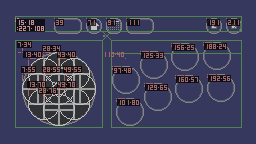
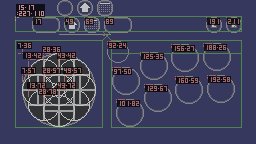
adjust position of sub buttons in joystick-m skins

diff --git a/index.html b/index.html
@@ -477,7 +477,7 @@
 
 <!-- updater -->
 <script>
-  const version = '3.10.3'
+  const version = '3.10.4'
   const MPUpdater = new MiniPadderUpdater(version)
   const versionDoms = document.getElementsByClassName('version')
   Array.from(versionDoms).forEach(v => v.innerHTML = version)
